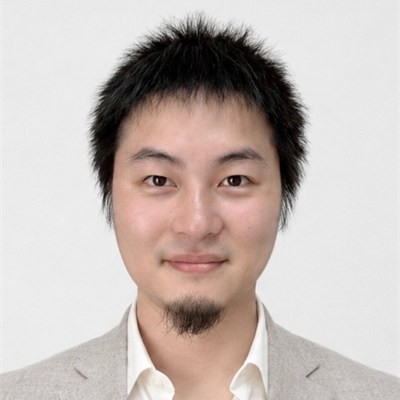
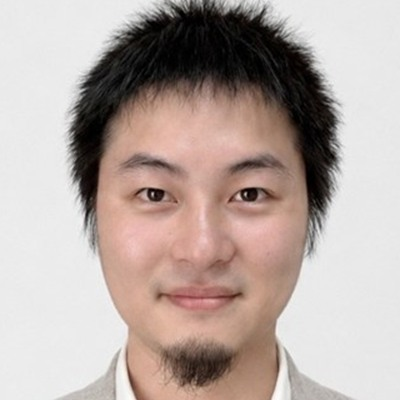
Add one survey per speaker, enlarge face-centered portraits, and trim hero

diff --git a/index.html b/index.html
@@ -102,20 +102,6 @@
           faithfulness, and efficiency.
         </p>
 
-        <ul class="hero-meta">
-          <li class="item">
-            <svg viewBox="0 0 24 24" width="17" height="17" fill="none" stroke="currentColor" stroke-width="2" stroke-linecap="round" stroke-linejoin="round" aria-hidden="true"><rect x="3" y="5" width="18" height="16" rx="2"></rect><path d="M8 3v4M16 3v4M3 11h18"></path></svg>
-            During AAAI-27 &middot; Feb 16&ndash;23, 2027
-          </li>
-          <li class="item">
-            <svg viewBox="0 0 24 24" width="17" height="17" fill="none" stroke="currentColor" stroke-width="2" stroke-linecap="round" stroke-linejoin="round" aria-hidden="true"><circle cx="12" cy="12" r="9"></circle><path d="M12 7v5l3 2"></path></svg>
-            Half-day &middot; 3.5 h + 30 min break
-          </li>
-          <li class="item">
-            <svg viewBox="0 0 24 24" width="17" height="17" fill="none" stroke="currentColor" stroke-width="2" stroke-linecap="round" stroke-linejoin="round" aria-hidden="true"><path d="M20 10c0 6-8 12-8 12s-8-6-8-12a8 8 0 0 1 16 0z"></path><circle cx="12" cy="10" r="3"></circle></svg>
-            Montr&eacute;al, Canada
-          </li>
-        </ul>
       </div>
     </section>
 
@@ -168,42 +154,42 @@
         <ul class="speakers-grid">
           <li class="speaker reveal">
             <a class="avatar-link" href="https://qinlibo-hit.github.io/" target="_blank" rel="noopener" aria-label="Libo Qin homepage">
-              <img class="avatar" src="assets/people/libo-qin.jpg" alt="Libo Qin" width="96" height="96" loading="lazy" />
+              <img class="avatar" src="assets/people/libo-qin.jpg" alt="Libo Qin" width="120" height="120" loading="lazy" />
             </a>
             <h3><a href="https://qinlibo-hit.github.io/" target="_blank" rel="noopener">Libo Qin</a></h3>
             <p class="affil">Harbin Institute of Technology, Shenzhen</p>
           </li>
           <li class="speaker reveal">
             <a class="avatar-link" href="https://haofei.vip/" target="_blank" rel="noopener" aria-label="Hao Fei homepage">
-              <img class="avatar" src="assets/people/hao-fei.jpg" alt="Hao Fei" width="96" height="96" loading="lazy" />
+              <img class="avatar" src="assets/people/hao-fei.jpg" alt="Hao Fei" width="120" height="120" loading="lazy" />
             </a>
             <h3><a href="https://haofei.vip/" target="_blank" rel="noopener">Hao Fei</a></h3>
             <p class="affil">University of Oxford</p>
           </li>
           <li class="speaker reveal">
             <a class="avatar-link" href="https://bcmi.sjtu.edu.cn/home/zhangzs/" target="_blank" rel="noopener" aria-label="Zhuosheng Zhang homepage">
-              <img class="avatar" src="assets/people/zhuosheng-zhang.jpg" alt="Zhuosheng Zhang" width="96" height="96" loading="lazy" />
+              <img class="avatar" src="assets/people/zhuosheng-zhang.jpg" alt="Zhuosheng Zhang" width="120" height="120" loading="lazy" />
             </a>
             <h3><a href="https://bcmi.sjtu.edu.cn/home/zhangzs/" target="_blank" rel="noopener">Zhuosheng Zhang</a></h3>
             <p class="affil">Shanghai Jiao Tong University</p>
           </li>
           <li class="speaker reveal">
             <a class="avatar-link" href="https://liangmingpan.bio/" target="_blank" rel="noopener" aria-label="Liangming Pan homepage">
-              <img class="avatar" src="assets/people/liangming-pan.jpg" alt="Liangming Pan" width="96" height="96" loading="lazy" />
+              <img class="avatar" src="assets/people/liangming-pan.jpg" alt="Liangming Pan" width="120" height="120" loading="lazy" />
             </a>
             <h3><a href="https://liangmingpan.bio/" target="_blank" rel="noopener">Liangming Pan</a></h3>
             <p class="affil">Peking University</p>
           </li>
           <li class="speaker reveal">
             <a class="avatar-link" href="https://yafuly.github.io/" target="_blank" rel="noopener" aria-label="Yafu Li homepage">
-              <img class="avatar" src="assets/people/yafu-li.jpg" alt="Yafu Li" width="96" height="96" loading="lazy" />
+              <img class="avatar" src="assets/people/yafu-li.jpg" alt="Yafu Li" width="120" height="120" loading="lazy" />
             </a>
             <h3><a href="https://yafuly.github.io/" target="_blank" rel="noopener">Yafu Li</a></h3>
             <p class="affil">Shanghai AI Laboratory &middot; CUHK</p>
           </li>
           <li class="speaker reveal">
             <a class="avatar-link" href="https://homepage.hit.edu.cn/MinZhang" target="_blank" rel="noopener" aria-label="Min Zhang homepage">
-              <img class="avatar" src="assets/people/min-zhang.jpg" alt="Min Zhang" width="96" height="96" loading="lazy" />
+              <img class="avatar" src="assets/people/min-zhang.jpg" alt="Min Zhang" width="120" height="120" loading="lazy" />
             </a>
             <h3><a href="https://homepage.hit.edu.cn/MinZhang" target="_blank" rel="noopener">Min Zhang</a></h3>
             <p class="affil">Harbin Institute of Technology, Shenzhen</p>
@@ -284,40 +270,34 @@
         <div class="readings-panel reveal">
           <ul class="readings">
             <li>
+              <span class="reading-person">Libo Qin</span>
               <a href="https://arxiv.org/abs/2503.09567" target="_blank" rel="noopener">Towards Reasoning Era: A Survey of Long Chain-of-Thought for Reasoning Large Language Models</a>
               <span>Chen et al. &middot; 2026 &middot; Science China Information Sciences &middot; arXiv:2503.09567</span>
             </li>
             <li>
+              <span class="reading-person">Hao Fei</span>
+              <a href="https://arxiv.org/abs/2503.12605" target="_blank" rel="noopener">Multimodal Chain-of-Thought Reasoning: A Comprehensive Survey</a>
+              <span>Wang et al. &middot; 2025 &middot; arXiv:2503.12605</span>
+            </li>
+            <li>
+              <span class="reading-person">Zhuosheng Zhang</span>
+              <a href="https://arxiv.org/abs/2311.11797" target="_blank" rel="noopener">Igniting Language Intelligence: The Hitchhiker&rsquo;s Guide From Chain-of-Thought Reasoning to Language Agents</a>
+              <span>Zhang et al. &middot; 2023 &middot; arXiv:2311.11797</span>
+            </li>
+            <li>
+              <span class="reading-person">Liangming Pan</span>
+              <a href="https://arxiv.org/abs/2601.14270" target="_blank" rel="noopener">Opening the Black Box: A Survey on the Mechanisms of Multi-Step Reasoning in Large Language Models</a>
+              <span>Pan et al. &middot; 2026 &middot; arXiv:2601.14270</span>
+            </li>
+            <li>
+              <span class="reading-person">Yafu Li</span>
               <a href="https://arxiv.org/abs/2503.21614" target="_blank" rel="noopener">A Survey of Efficient Reasoning for Large Reasoning Models: Language, Multimodality, and Beyond</a>
               <span>Qu et al. &middot; 2025 &middot; arXiv:2503.21614</span>
             </li>
             <li>
-              <a href="https://arxiv.org/abs/2210.03057" target="_blank" rel="noopener">Language Models Are Multilingual Chain-of-Thought Reasoners</a>
-              <span>Shi et al. &middot; 2023 &middot; ICLR &middot; arXiv:2210.03057</span>
-            </li>
-            <li>
-              <a href="https://arxiv.org/abs/2305.04388" target="_blank" rel="noopener">Language Models Don&rsquo;t Always Say What They Think: Unfaithful Explanations in Chain-of-Thought Prompting</a>
-              <span>Turpin et al. &middot; 2023 &middot; NeurIPS &middot; arXiv:2305.04388</span>
-            </li>
-            <li>
-              <a href="https://arxiv.org/abs/2402.03268" target="_blank" rel="noopener">Understanding Reasoning Ability of Language Models From the Perspective of Reasoning Paths Aggregation</a>
-              <span>Wang et al. &middot; 2024 &middot; ICML &middot; arXiv:2402.03268</span>
-            </li>
-            <li>
-              <a href="https://arxiv.org/abs/2201.11903" target="_blank" rel="noopener">Chain-of-Thought Prompting Elicits Reasoning in Large Language Models</a>
-              <span>Wei et al. &middot; 2022 &middot; NeurIPS &middot; arXiv:2201.11903</span>
-            </li>
-            <li>
-              <a href="https://arxiv.org/abs/2502.12067" target="_blank" rel="noopener">TokenSkip: Controllable Chain-of-Thought Compression in LLMs</a>
-              <span>Xia et al. &middot; 2025 &middot; EMNLP &middot; arXiv:2502.12067</span>
-            </li>
-            <li>
-              <a href="https://arxiv.org/abs/2405.18357" target="_blank" rel="noopener">Faithful Logical Reasoning via Symbolic Chain-of-Thought</a>
-              <span>Xu et al. &middot; 2024 &middot; ACL &middot; arXiv:2405.18357</span>
-            </li>
-            <li>
-              <a href="https://arxiv.org/abs/2302.00923" target="_blank" rel="noopener">Multimodal Chain-of-Thought Reasoning in Language Models</a>
-              <span>Zhang et al. &middot; 2024 &middot; TMLR &middot; arXiv:2302.00923</span>
+              <span class="reading-person">Min Zhang</span>
+              <a href="https://arxiv.org/abs/2505.04921" target="_blank" rel="noopener">Perception, Reason, Think, and Plan: A Survey on Large Multimodal Reasoning Models</a>
+              <span>Li et al. &middot; 2025 &middot; arXiv:2505.04921</span>
             </li>
           </ul>
         </div>

diff --git a/style.css b/style.css
@@ -361,31 +361,6 @@ h3 {
   color: var(--muted);
 }
 
-.hero-meta {
-  display: flex;
-  flex-wrap: wrap;
-  justify-content: center;
-  gap: 12px 28px;
-  max-width: 930px;
-  margin: 44px auto 0;
-  padding: 24px 0 0;
-  border-top: 1px solid var(--border);
-  list-style: none;
-  font-size: 13.5px;
-  color: var(--muted);
-}
-
-.hero-meta .item {
-  display: inline-flex;
-  align-items: center;
-  gap: 8px;
-}
-
-.hero-meta svg {
-  color: var(--accent);
-  flex: none;
-}
-
 /* ---------- Sections ---------- */
 .section {
   padding: 84px 0;
@@ -545,9 +520,9 @@ h3 {
 
 .avatar-link {
   display: block;
-  width: 96px;
-  height: 96px;
-  margin: 0 auto 16px;
+  width: 120px;
+  height: 120px;
+  margin: 0 auto 18px;
   border-radius: 50%;
 }
 
@@ -561,8 +536,8 @@ h3 {
 }
 
 .avatar {
-  width: 96px;
-  height: 96px;
+  width: 120px;
+  height: 120px;
   display: grid;
   place-items: center;
   margin: 0 auto 16px;
@@ -573,8 +548,8 @@ h3 {
 }
 
 .avatar svg {
-  width: 44px;
-  height: 44px;
+  width: 52px;
+  height: 52px;
   opacity: 0.95;
 }
 
@@ -645,6 +620,16 @@ img.avatar {
 .readings li:last-child {
   padding-bottom: 0;
   border-bottom: none;
+}
+
+.reading-person {
+  display: inline-block;
+  margin-bottom: 4px;
+  font-size: 11px;
+  font-weight: 700;
+  letter-spacing: 0.08em;
+  text-transform: uppercase;
+  color: var(--accent-strong);
 }
 
 .readings a {
@@ -802,11 +787,6 @@ img.avatar {
 
   .speakers-grid {
     grid-template-columns: 1fr;
-  }
-
-  .hero-meta {
-    gap: 10px 18px;
-    font-size: 12.5px;
   }
 
   .readings-panel {

diff --git a/README.md b/README.md
@@ -39,7 +39,7 @@ things that are only known closer to the conference.
 
 ### Speaker photos
 
-Portraits are in `assets/people/` (400×400, center-cropped):
+Portraits are in `assets/people/` (400×400, face-centered crops):
 
 | Speaker | Source |
 | --- | --- |
